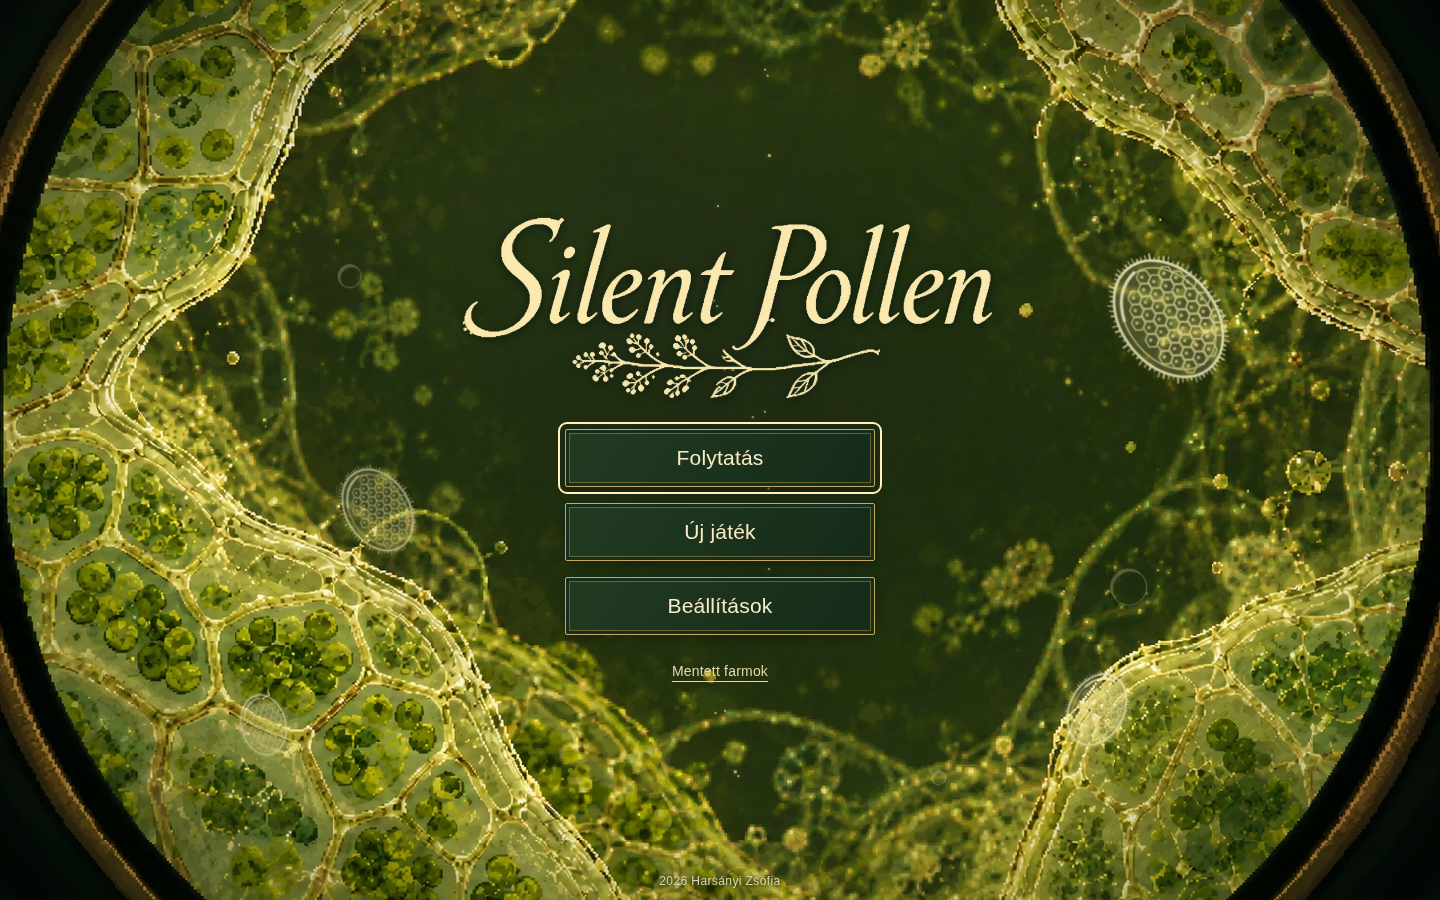
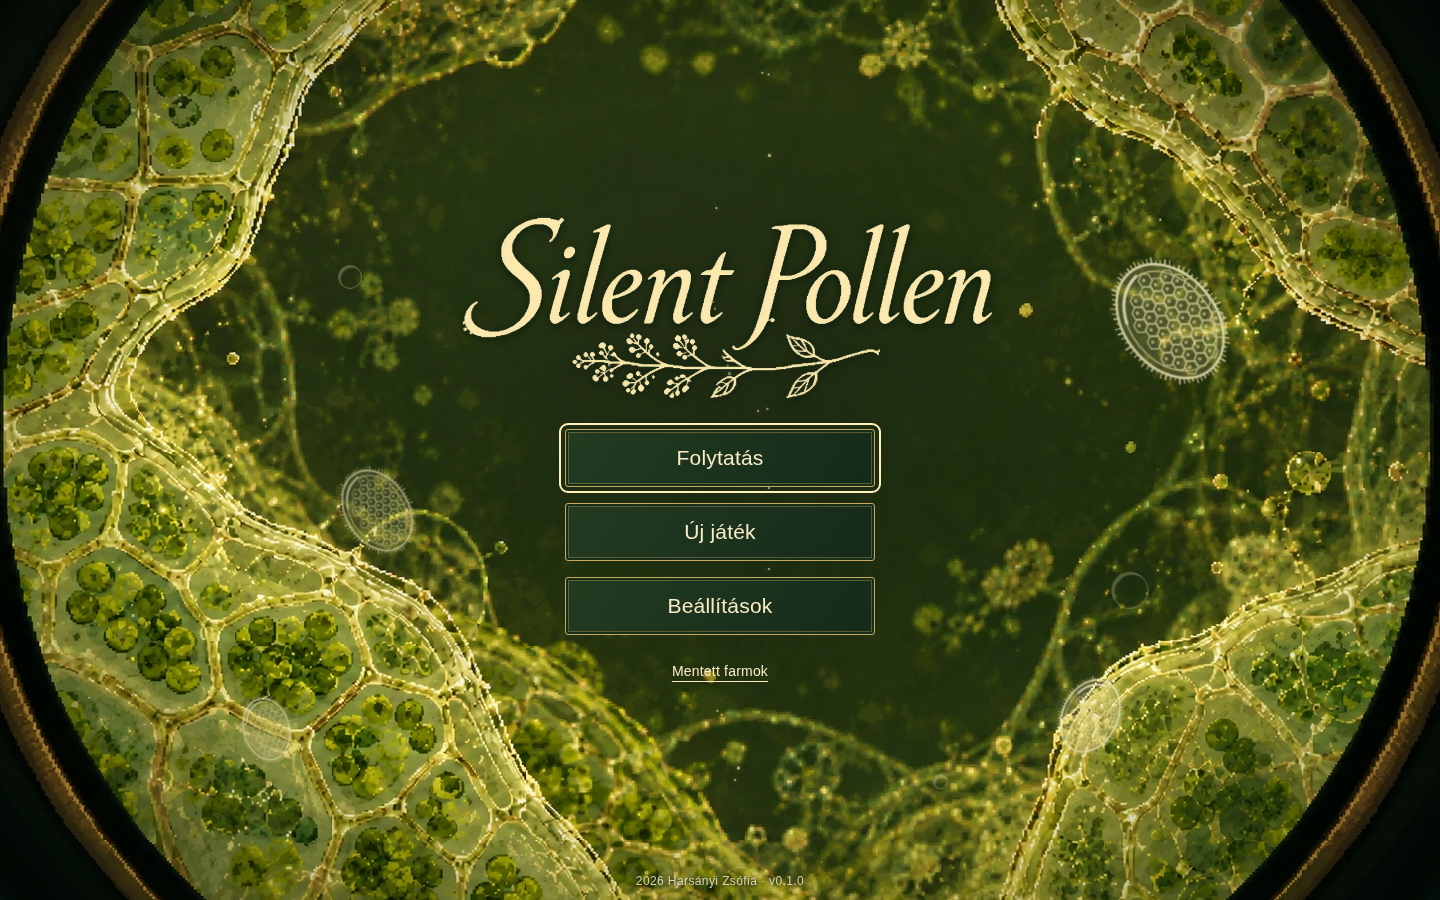
Introduce player-facing game version 0.1.0 and release notes

diff --git a/cypress/e2e/farm.cy.ts b/cypress/e2e/farm.cy.ts
@@ -277,6 +277,6 @@ describe('Escape start-menu shortcut',()=>{
 
 describe('Silent Pollen menu presentation',()=>{
  it('keeps the pause menu and its settings over the farm, and the main menu fullscreen',()=>{
-  start();cy.get('#menu').click();cy.get('#dialogue').should('have.attr','data-menu','pause').then(el=>{cy.window().then(win=>expect(el[0].getBoundingClientRect().width).to.be.lessThan(win.innerWidth));});cy.get('.menu-credits').should('be.visible').and('have.text','2026 Harsányi Zsófia');cy.get('#pause-settings').click();cy.get('#dialogue').should('have.attr','data-menu-origin','pause');press('Escape','Escape',27);cy.get('#resume-game').click();press('Escape','Escape',27);cy.get('#dialogue').should('have.attr','data-menu','start').then(el=>{cy.window().then(win=>expect(el[0].getBoundingClientRect().width).to.equal(win.innerWidth));});cy.get('.menu-logo').should('be.visible').and(el=>expect((el[0] as HTMLImageElement).naturalWidth).to.be.greaterThan(0));
+  start();cy.get('#menu').click();cy.get('#dialogue').should('have.attr','data-menu','pause').then(el=>{cy.window().then(win=>expect(el[0].getBoundingClientRect().width).to.be.lessThan(win.innerWidth));});cy.get('.menu-credits').should('be.visible').and('contain','2026 Harsányi Zsófia');cy.get('#menu-version').should('be.visible').invoke('text').should('match',/^v\d+\.\d+\.\d+$/);cy.get('#pause-settings').click();cy.get('#dialogue').should('have.attr','data-menu-origin','pause');press('Escape','Escape',27);cy.get('#resume-game').click();press('Escape','Escape',27);cy.get('#dialogue').should('have.attr','data-menu','start').then(el=>{cy.window().then(win=>expect(el[0].getBoundingClientRect().width).to.equal(win.innerWidth));});cy.get('.menu-logo').should('be.visible').and(el=>expect((el[0] as HTMLImageElement).naturalWidth).to.be.greaterThan(0));
  });
 });

diff --git a/src/menu-presentation.ts b/src/menu-presentation.ts
@@ -1,3 +1,4 @@
+import {GAME_VERSION} from './version';
 const menuLogo=new URL('./assets/silent-pollen-logo.webp',import.meta.url).href;
 // Menu-only decoration and sound; no game or save state lives here.
 export class MenuPresentation{
@@ -22,7 +23,7 @@ export class MenuPresentation{
   this.dialog.prepend(this.scene);
   this.brand=document.createElement('div');this.brand.className='menu-brand';this.brand.setAttribute('aria-hidden','true');
   const logo=document.createElement('img');logo.className='menu-logo';logo.src=menuLogo;logo.alt='';logo.width=2170;logo.height=725;logo.draggable=false;this.brand.append(logo);
-  const credits=document.createElement('footer');credits.className='menu-credits';credits.append(document.createTextNode('2026 Harsányi Zsófia'));const version=document.createElement('span');version.id='menu-version';version.hidden=true;credits.append(version);this.dialog.append(credits);
+  const credits=document.createElement('footer');credits.className='menu-credits';credits.append(document.createTextNode('2026 Harsányi Zsófia'));const version=document.createElement('span');version.id='menu-version';version.textContent=`v${GAME_VERSION}`;version.setAttribute('aria-label',`Játékverzió: ${GAME_VERSION}`);credits.append(version);this.dialog.append(credits);
   this.dialog.querySelector('form')!.prepend(this.brand);
   this.dialog.dataset.menuSection='home';
   document.querySelector('#open-farms')!.addEventListener('click',()=>{this.dialog.dataset.menuSection='farms';document.querySelector<HTMLButtonElement>('#back-from-farms')!.focus();});

diff --git a/src/version.ts b/src/version.ts
@@ -1,0 +1,4 @@
+import {version} from '../package.json';
+
+// Player-facing release number, independent of the save format in storage.ts.
+export const GAME_VERSION=version;

diff --git a/docs/verziozas.md b/docs/verziozas.md
@@ -1,0 +1,26 @@
+# Játékverziók
+
+A játék első számozott kiadása **0.1.0**. A korábbi fejlesztéseket nem szükséges utólag verziószámokkal ellátni; a Git-előzményük már megvan.
+
+## Egyetlen verzióforrás
+
+A játékverzió forrása a `package.json` `version` mezője. A felület ezt a `src/version.ts` segítségével olvassa; a számozást ne írd be külön a menük kódjába. Az npm lockfájl gyökérverzióit az npm verzióparancsa tartja összhangban.
+
+- **0.1.1** jellegű lépés: hibajavítás, kisebb grafikai vagy kezelési finomítás.
+- **0.2.0** jellegű lépés: nagyobb új tartalom vagy játékrendszer.
+- **1.0.0**: az első késznek tekintett teljes kiadás, külön közös döntés alapján.
+
+A három rész külön egész szám: 0.1.9 után 0.1.10, 0.1.11 és így tovább következhet. A 0.2.0 nem a tizedik javítás, hanem nagyobb tartalmi kiadás.
+
+Nem minden apró commit kap új számot. Egy összetartozó, ellenőrzött, játékosoknak kiadott frissítéshez tartozik verzió és változáslista.
+
+## Kiadás menete
+
+1. Válaszd ki a kiadás léptékét. Az első 0.1.0 után például `npm version patch --no-git-tag-version` állítja át a csomagot és lockfájlt 0.1.1-re; nagyobb tartalmi kiadáshoz `minor` használható. A parancs önmagában nem készít commitot vagy Git-címkét.
+2. Írd meg a `CHANGELOG.md` új, dátumozott bejegyzését, a végső változásokkal.
+3. Futtasd az előírt teszteket és buildet; ellenőrizd a látható verziót mindkét menüben és egy korábbi farm betöltését.
+4. Commitold a kész kiadást. Ehhez a commithoz készüljön megjegyzéssel ellátott Git-címke, például `v0.1.1`; ezt is töltsd fel a kiadással együtt. Már kiadott címkét ne mozgass át másik commitra.
+
+## Nem ugyanaz, mint a mentés verziója
+
+A farmmentés technikai formátumának száma a `storage.ts` feladata. Jelenleg 18; ennek semmi köze a játék 0.1.0 jelöléséhez. Pusztán a játékverzió emelése miatt ne módosítsd és ne migráld a mentéseket. Korábbi bevétel, készlet, kert vagy történeti haladás nem változik meg a számozástól.

diff --git a/docs/jatekterv.md b/docs/jatekterv.md
@@ -844,3 +844,10 @@ Amikor Sam először közel sétál valóban sikertelen terméskötődést mutat
 - Közös célpont- és felvételi kód: `src/placed-items.ts`; a jövőbeli mozgatható tárgyaknak is ezt kell használniuk. A teli tárolóláda, a dolgozó gép és az át nem vett kész termék blokkolja a felvételt. Teli hátizsák vagy sikertelen mentés esetén a tárgy a helyén marad. A felvétel nem kétszerezheti az eszközt.
 - Az Irányítás ismerteti a Bontóvas bontási és áthelyezési szerepét.
 - Ellenőrzés: 333 egységteszt; böngészőben felvétel és újra lehelyezés a gépekkel, kosárral, madárodúval és ládával; védett készletek és gépállapotok; házon belüli ládafelvétel; mindhárom bolt vásárlási és beszélgetési ablaka; mindkét névtelen figyelmeztetés-gomb az eredeti ceruzás szöveg megtartásával.
+
+
+### Első számozott játékkiadás — 2026. október 28.
+- Elfogadott első játékverzió: **0.1.0**. A Főmenüben és a Menüben is a készítő neve mellett látszik: `v0.1.0`. A felirat elhelyezése változatlan (Főmenü: képernyő alja; Menü: ablak alja).
+- Egyetlen forrás a `package.json` már meglévő 0.1.0 mezője; a felület közvetlenül ebből kapja a számot. Változáslista: `CHANGELOG.md`; kiadási szabályzat: `docs/verziozas.md`; az első állapot Git-címkéje `v0.1.0`.
+- Kisebb javítás 0.1.1, nagyobb tartalmi bővítés 0.2.0 jellegű lépés. Nem kell minden apró commit után új kiadás, és a korábbi fejlesztéseket nem számozzuk meg visszamenőleg. Az 1.0.0 külön közös döntés lesz.
+- A farmmentés technikai verziója továbbra is 18, a korábbi mentések tartalmát a játékverzió bevezetése nem módosítja.

diff --git a/README.md b/README.md
@@ -1,6 +1,8 @@
-# Erdőszéli birtok
+# Silent Pollen
 
-Nyugodt, böngészős farmjáték. Jelenleg kertészkedési prototípus: saját ideiglenes grafikával, bejárható farmmal, kapálással, vetéssel és öntözéssel.
+Nyugodt, böngészős farmjáték botanikai kutatással és lassan kibontakozó rejtéllyel. A játék még fejlesztés alatt áll.
+
+Az aktuális játékverzió a Főmenüben és a Menüben látható. [Változások](CHANGELOG.md) · [Verziózási szabályok](docs/verziozas.md)
 
 ## Futtatás
 
@@ -11,7 +13,7 @@ npm ci
 npm run dev
 ```
 
-Nyisd meg a Vite által kiírt címet. A kezdőmenüben a Folytatás az utoljára játszott farmot nyitja meg; az Új játék a farm nevének megadásával új, külön mentést hoz létre 100 golddal és induló magokkal. A korábbi farmok a Mentett farmjaid listában megmaradnak. Játék közben a Menü → Kezdőmenü · Farmválasztás pontban válthatsz közöttük. Mozgás: WASD, nyilak vagy érintőgombok. Ugrás: Space; futás: Shift; művelet: F vagy kattintás; készlet: Tab; tárgyhasználat: közelről E vagy kattintás.
+Nyisd meg a Vite által kiírt címet. A kezdőmenüben a Folytatás az utoljára játszott farmot nyitja meg; az Új játék a farm nevének megadásával új, külön mentést hoz létre 100 golddal és induló magokkal. A korábbi farmok a Mentett farmjaid listában megmaradnak. Játék közben a Menü → Főmenü → Mentett farmok pontban válthatsz közöttük. Mozgás: WASD, nyilak vagy érintőgombok. Ugrás: Space; futás: Shift; művelet: F vagy kattintás; készlet: Tab; tárgyhasználat: közelről E vagy kattintás.
 
 ```sh
 npm test

diff --git a/AGENTS.md b/AGENTS.md
@@ -21,3 +21,5 @@
 - Minden lehelyezett, mozgatható tárgyat (a jövőben készülőket is) Bontóvassal veszünk vissza a Készletbe, majd onnan helyezünk le újra. Használd a `placed-items.ts` közös felvételi útvonalát; ne adj külön Felveszem/Üres láda felvétele gombot. A teli tárolók, dolgozó gépek és át nem vett termékek védelmét őrizd meg.
 
 - Minden jelenlegi és új ablak/gomb kövesse a [közös arculati szabályzatot](docs/ablakok-es-gombok.md). A közös alapstílus forrása `src/dialogue-theme.css`; ne kizárólag kézzel felsorolt ablakcímekhez kösd az egységesítést. Vizuális módosításnál ellenőrizd a szabályzat teljes ablaklistáját, beleértve a beszélgetések és a boltok Vissza gombjait, illetve a névtelen figyelmeztetés gombjait is.
+
+- Játékkiadásokhoz kövesd a [verziózási szabályzatot](docs/verziozas.md): egyetlen verzióforrás a `package.json`, látható szám a `src/version.ts`-ből, változáslista a `CHANGELOG.md`-ben, kiadási Git-címke. Nem minden commit új kiadás. A mentésformátum verzióját ettől külön kezeld.

diff --git a/CHANGELOG.md b/CHANGELOG.md
@@ -1,0 +1,14 @@
+# Változások
+
+## 0.1.0 — 2026. október 28.
+
+Az első számozott, fejlesztés alatti kiadás. A korábbi fejlesztéseket ezzel az állapottal fogjuk össze; nem számozzuk meg őket utólag.
+
+- Farmgondozás, növénytermesztés, időjárás, gyümölcsök és a beporzóhiány hatásai.
+- Bejárható falu és erdő, üzletek, gyűjtögetés és kíméletes erdei harc.
+- Sam története, a Műhely helyreállítása és mikroszkópos vizsgálódás.
+- Kézműves gépek, tárolóládák és a mozgatható tárgyak egységes Bontóvas-kezelése.
+- Több külön mentett farm, animált mikroszkópos Főmenü és egységes játékablakok.
+- A játékverzió megjelenik a Főmenüben és a Menüben. A korábbi farmmentések formátuma és tartalma megmarad.
+
+A következő kiadások változásai legfelül kapnak új bejegyzést.
